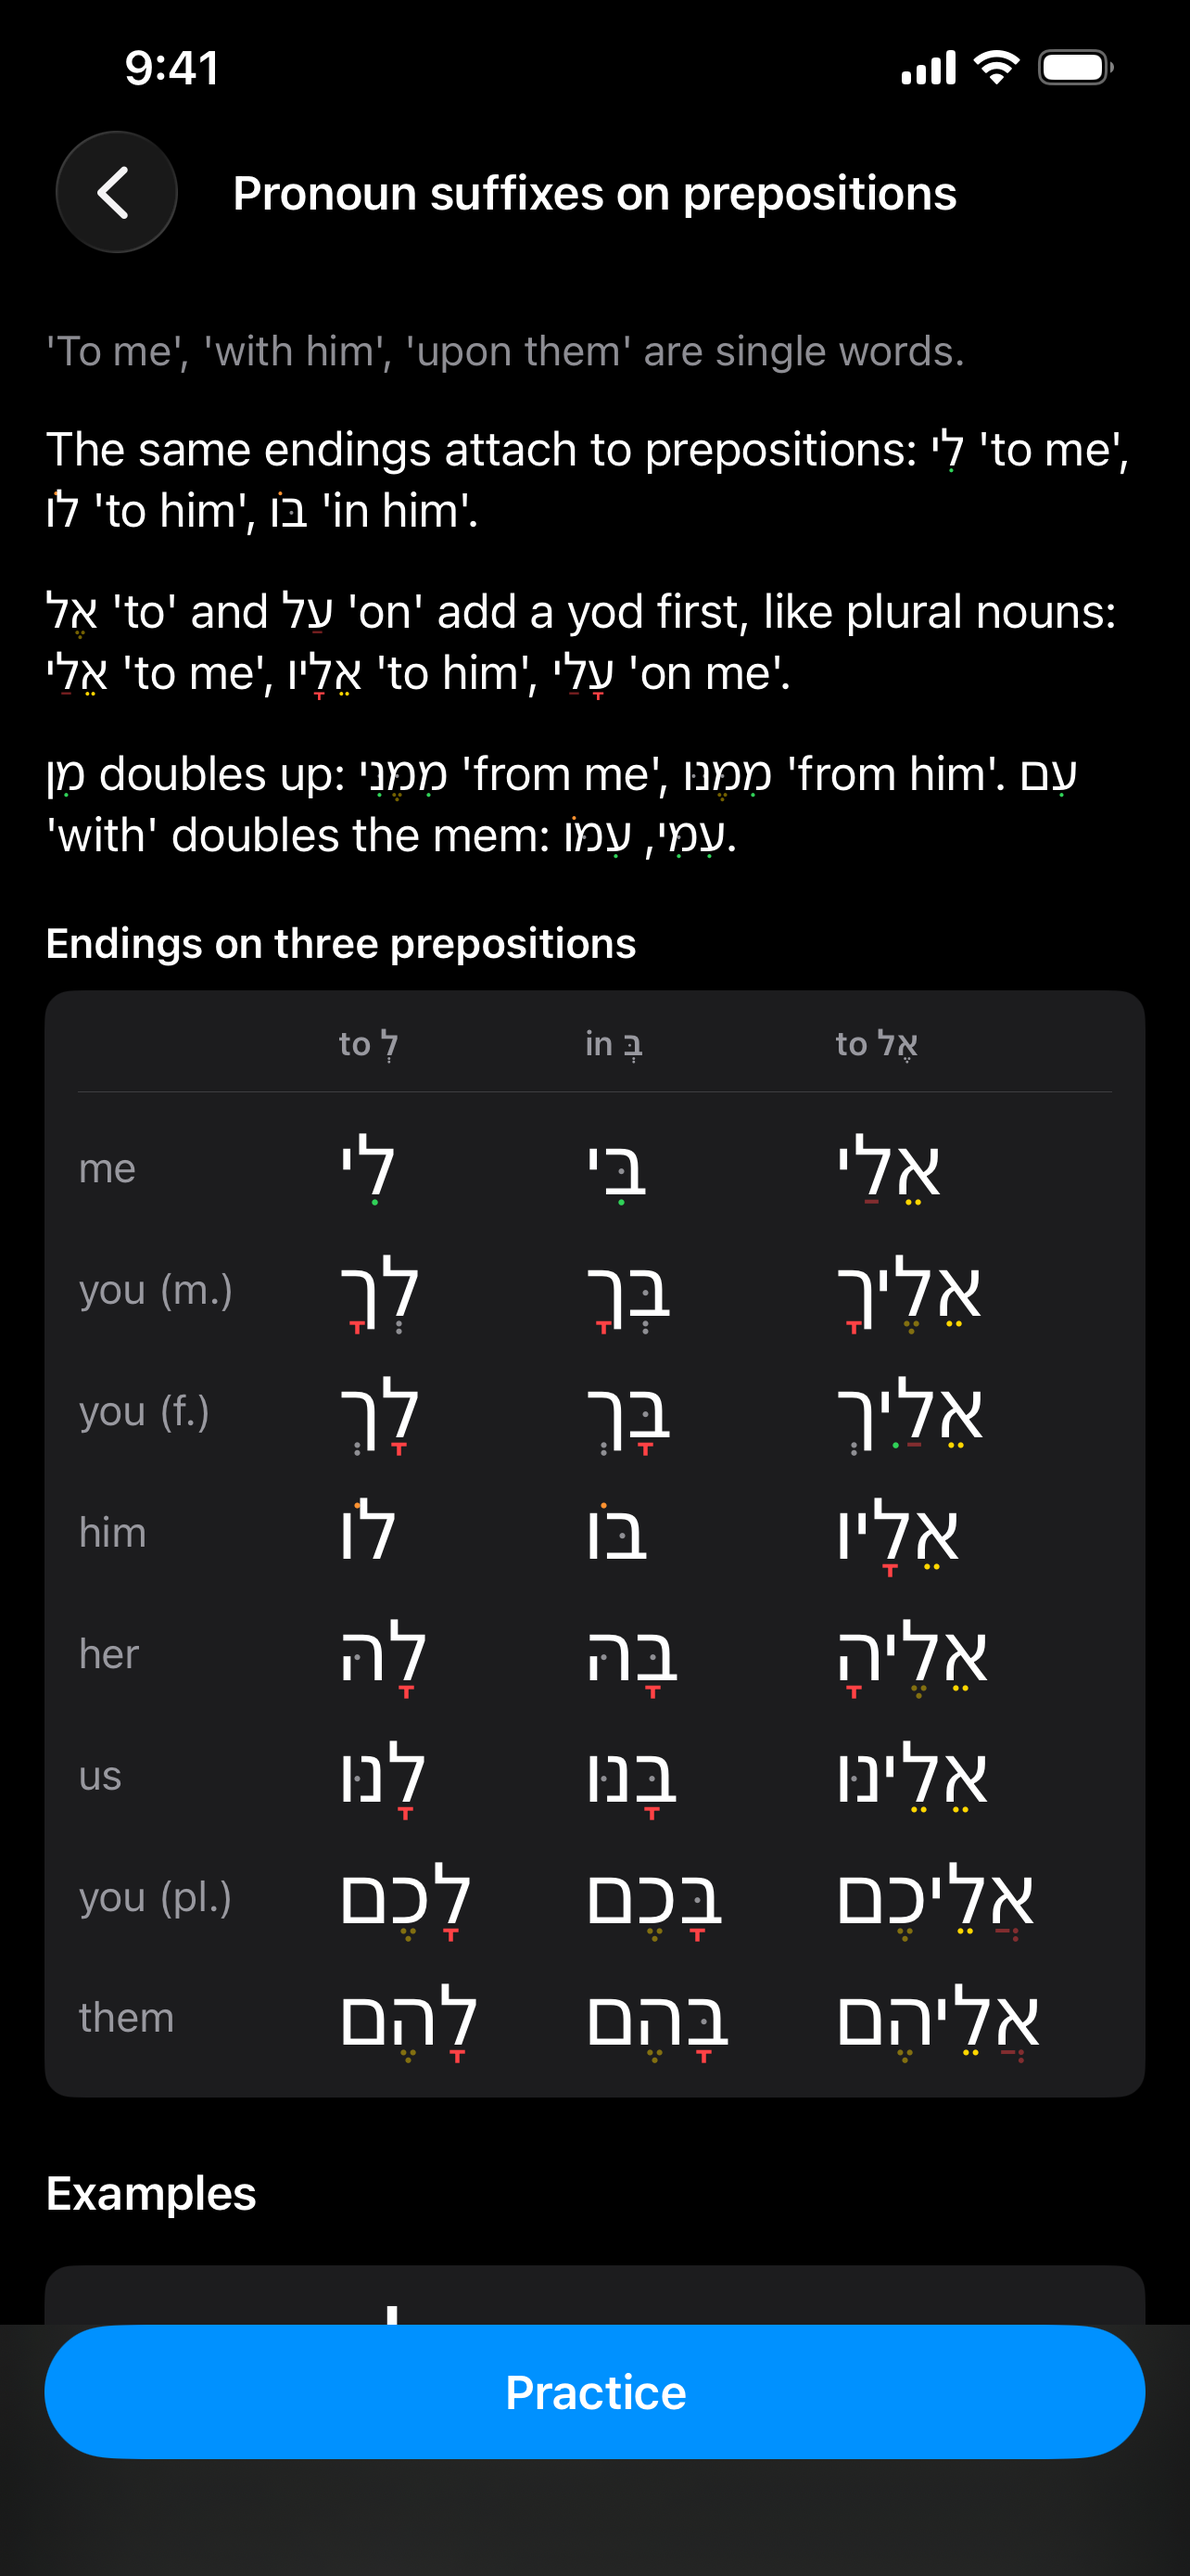
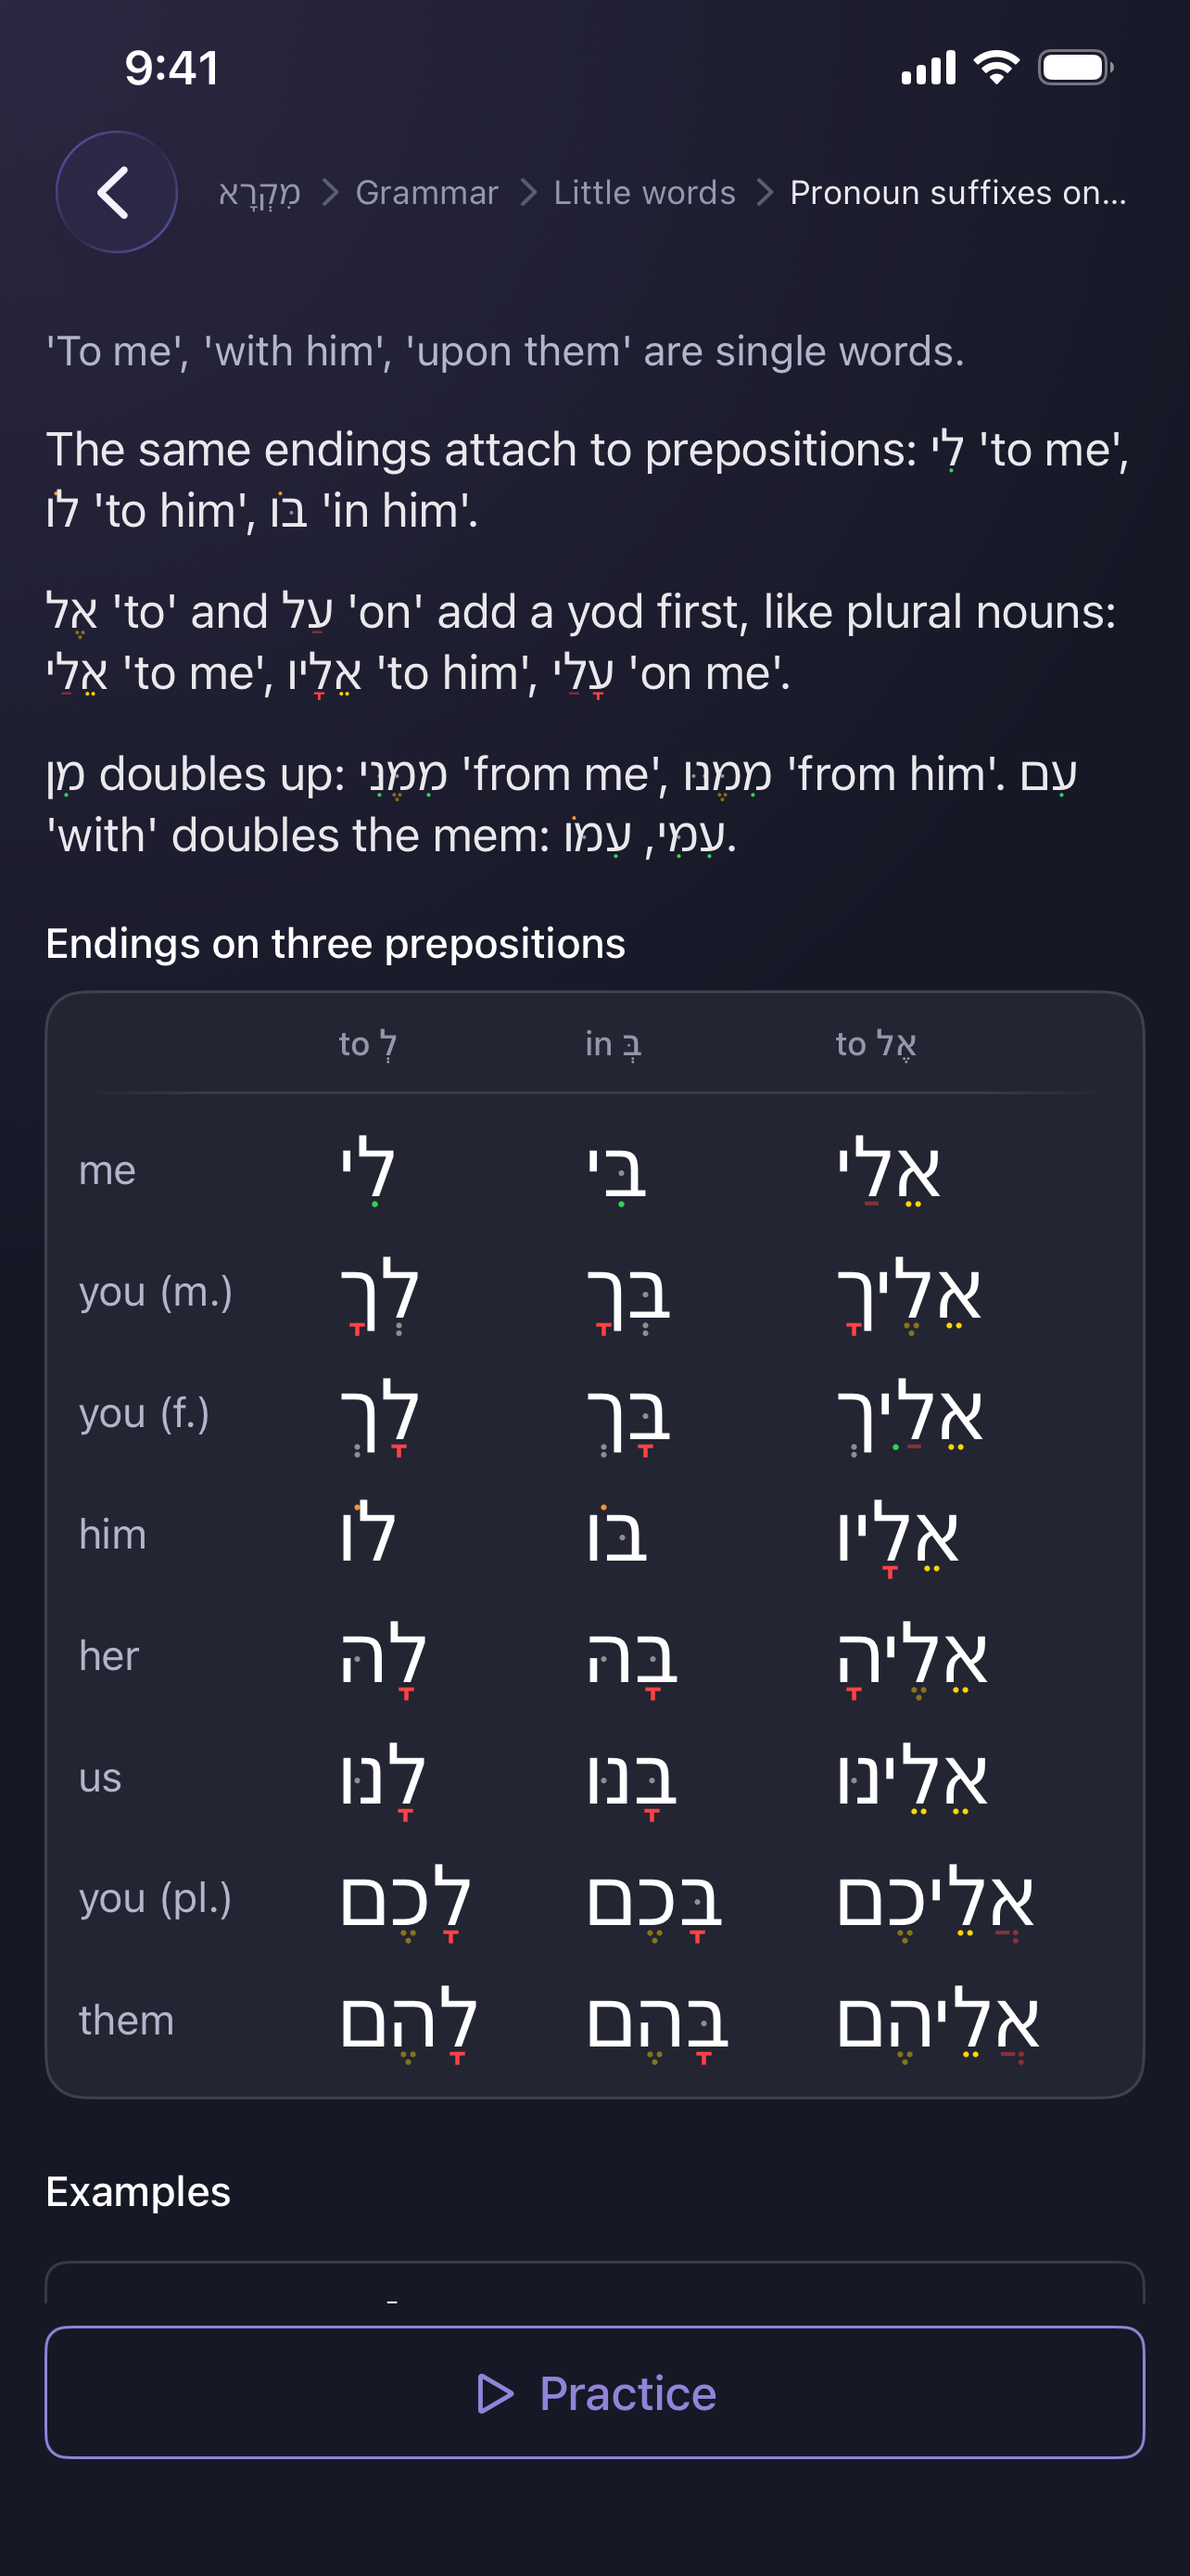
Refresh screenshots for 1.5 and add a Daily phrases screen

diff --git a/appstore/SUBMISSION.md b/appstore/SUBMISSION.md
@@ -8,7 +8,7 @@
 - [x] Version 1.2 (build 6, uploaded 2026-09-26): dashboard home (words / verses / grammar), pronoun and number decks, 40 grammar lessons with tables, settings (appearance, reading speed), pronunciation after reveal — **approved and live**
 - [x] Version 1.3 (build 9, uploaded 2026-09-30; builds 7 and 8 superseded — build 9 fixes the word deck, which had been missing son, house, people, city, eye and 155 other common words): custom word sets (bookmark on any card; sets open as shuffled flash cards), Chinese meanings (Settings → Meanings), verse page opens on text + translation with a None/Meaning/Reading picker under each word, record yourself reading a verse and play it back, coloured vowel points everywhere, five word bands
 - [x] Export compliance key (ITSAppUsesNonExemptEncryption=NO)
-- [x] Screenshots in appstore/screenshots/: one set only — dark mode, 6.5" (`dark-*-6.5.png`, 1284×2778, iPhone 14 Plus simulator), six screens (home, verse, pronoun deck, grammar lesson, vowel card, scan notes), captured 2026-10-02 for 1.4 with the -openVerse/-openDeck/-reveal/-openLesson/-openVowel/-scanText= launch hooks, the home seeded with one custom set, the verse in Meaning mode, and `simctl status_bar override --time 9:41 --batteryState discharging --batteryLevel 100 --wifiBars 3 --cellularBars 4`. Upload the same five for the 6.9" slot; App Store Connect accepts 6.5" there. The light and 6.9" sets were dropped for 1.3.
+- [x] Screenshots in appstore/screenshots/: one set only — dark mode, 6.5" (`dark-*-6.5.png`, 1284×2778, iPhone 14 Plus simulator), seven screens (home, verse, pronoun deck, grammar lesson, vowel card, scan notes, daily phrases), captured 2026-10-03 for 1.5 with the -openVerse/-openDeck -reveal/-openLesson/-openVowel/-scanText=/-openPhrases launch hooks, the home seeded with one custom set and Jonah as a recent book (appearance dark, verseHelp meaning in Documents/mikra.json), and `simctl status_bar override --time 9:41 --batteryState discharging --batteryLevel 100 --wifiBars 3 --cellularBars 4`. Upload the same seven for the 6.9" slot; App Store Connect accepts 6.5" there. The light and 6.9" sets were dropped for 1.3.
 - [x] Metadata drafts (metadata.md)
 - [x] Privacy policy text (privacy-policy.md)
 
@@ -26,7 +26,7 @@
 - [x] 1.2 version page (done, live).
 - [x] Version 1.4 (build 10, uploaded 2026-10-02): Scan notes (photograph or paste a word list in English, 中文 or Hebrew; the words Mikra knows become a new set or join an existing one), part of speech on every word card, custom sets open as a list with a shuffle button, "See also" words read aloud in place with their pronunciation, listening test on word decks; "Learn this" and the spaced-repetition review removed.
 - [x] Version 1.5 (build 11, uploaded 2026-10-03): the whole Hebrew Bible (39 books, "Old Testament" tile), Daily phrases (81 everyday Modern Hebrew phrases in 8 sets, read like verses), add words to a set by search or scan from the set's own screen, gender and number (or verb stem) on every word card, Practice screen.
-- [ ] **1.5 version page**: create the 1.5 version in App Store Connect, select build 11 once processed, paste “What’s New” (below), then submit. Screenshots still show 1.4; the home screen's Verses section changed (Old Testament + Daily phrases tiles), so recapture if time allows.
+- [ ] **1.5 version page**: create the 1.5 version in App Store Connect, select build 11 once processed, paste “What’s New” (below), then submit. Upload the seven `dark-*-6.5.png` screenshots (the 6.9" slot accepts them).
 
 What’s New for 1.5:
 
